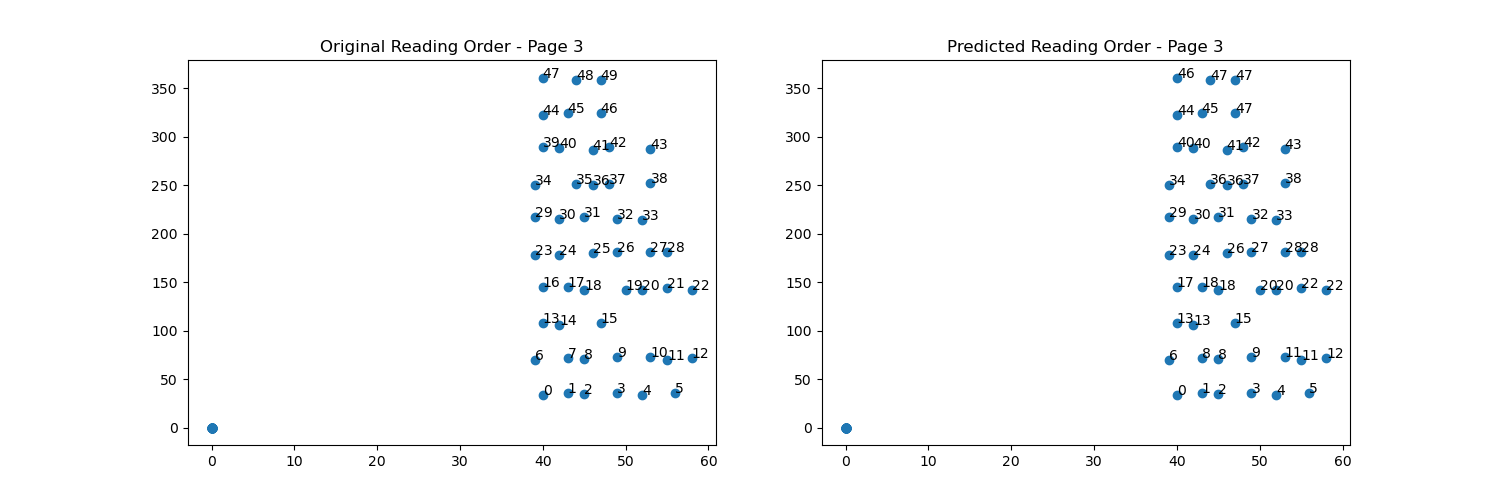
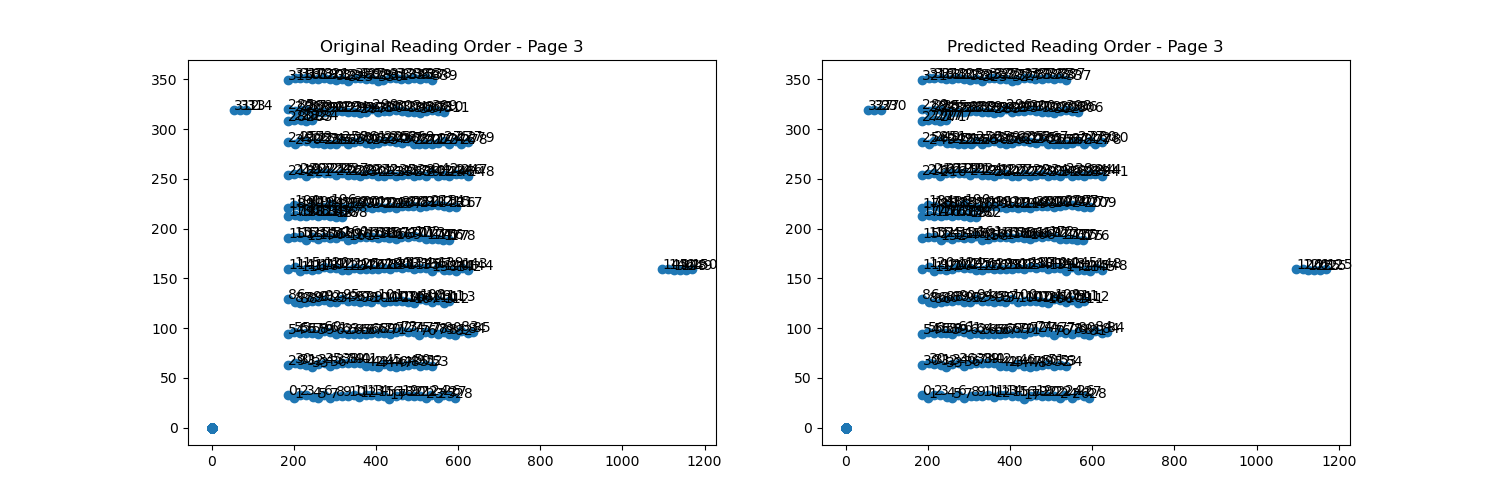
realistic baseline - promising result

diff --git a/baseline_2.py b/baseline_2.py
@@ -9,8 +9,10 @@ from torch.nn import TransformerEncoder, TransformerEncoderLayer
 import random
 import math
 
+MAX_LENGTH = 500
+
 class PointDataset(Dataset):
-    def __init__(self, data_dir, split_files, max_points=100):
+    def __init__(self, data_dir, split_files, max_points=MAX_LENGTH):
         self.data_dir = data_dir
         self.max_points = max_points
         self.examples = []
@@ -45,7 +47,7 @@ class PointDataset(Dataset):
         return torch.FloatTensor(points), torch.LongTensor(labels)
 
 class PositionalEncoding(nn.Module):
-    def __init__(self, d_model, max_len=100):
+    def __init__(self, d_model, max_len=MAX_LENGTH):
         super().__init__()
         position = torch.arange(max_len).unsqueeze(1)
         div_term = torch.exp(torch.arange(0, d_model, 2) * (-math.log(10000.0) / d_model))
@@ -58,7 +60,7 @@ class PositionalEncoding(nn.Module):
         return x + self.pe[:x.size(0)]
 
 class ReadingOrderTransformer(nn.Module):
-    def __init__(self, d_model=64, nhead=4, num_encoder_layers=3, num_classes=102):  # 20 + start/end tokens
+    def __init__(self, d_model=64, nhead=4, num_encoder_layers=3, num_classes=MAX_LENGTH+2):  # MAX_LENGTH + start/end tokens
         super().__init__()
         
         # Input embedding
@@ -92,7 +94,7 @@ class ReadingOrderTransformer(nn.Module):
         
         # Output layer
         output = output.transpose(0, 1)  # [batch_size, seq_len, d_model]
-        output = self.output(output)  # [batch_size, seq_len, num_classes]
+        output = self.output(output)  # [batch_size, seq_len, num_classes] [32, 100, 100]
         
         return output
 
@@ -220,3 +222,10 @@ def main():
 
 if __name__ == "__main__":
     main()
+
+
+# TODO
+# normalize for page size
+# ensure decoding does not repeat a class
+# how does transformer encoder work
+# train longer

diff --git a/generate_data.py b/generate_data.py
@@ -94,19 +94,19 @@ def save_points_and_labels(points, labels, points_file="points.txt", labels_file
 def generate_realistic_parameters():
     """Generate realistic variations in page layout parameters"""
     # Page dimensions (slight variations around standard values)
-    page_width = random.randint(200, 300)  # Varying around 1250
+    page_width = random.randint(1200, 1300)  # Varying around 1250
     page_height = random.randint(500, 550)   # Varying around 532
     
     # Number of lines varies by content density
-    num_lines = 10 #random.randint(5, 12)  # Varying around 20
+    num_lines = random.randint(5, 12)  # Varying around 20
     
     # Character length varies by content style
-    min_chars = random.randint(3, 4)
-    max_chars = random.randint(5, 7)
+    min_chars = random.randint(20, 24)
+    max_chars = random.randint(30, 34)
     chars_per_line_range = (min_chars, max_chars)
     
     # Footnote probability varies by document type
-    footnotes_prob = 0 #random.uniform(0.15, 0.25)  # Varying around 0.2
+    footnotes_prob = random.uniform(0.10, 0.20)  # Varying around 0.2
     
     # Footnote length varies by content
     min_footnote = random.randint(1, 4)
